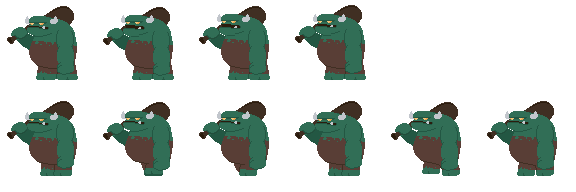
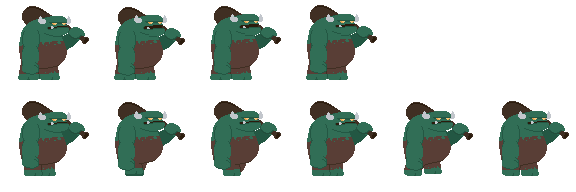
added pumpkin anim

Changed region(s): [[0.0, 0.5312, 1.0, 0.9375], [0.0, 0.0312, 0.6562, 0.4375]]

diff --git a/graphics_loader.py b/graphics_loader.py
@@ -101,9 +101,11 @@ class GraphicsLoader:
 
         filename = "assets/gfx/entities/pumpkin.png"
         self.load_image(filename)
-        self.add_anim_strip(filename, "idle", 0, 64, 64, 4), (1.5, 1.5)
-        self.add_anim_strip(filename, "run", 1, 64, 64, 8, (1.5, 1.5))
-        self.add_anim_strip(filename, "flee", 2, 64, 64, 8, (1.5, 1.5))
+        self.add_anim_strip(filename, "idle", 0, 96, 96, 4), (1.5, 1.5)
+        self.add_anim_strip(filename, "run", 1, 96, 96, 8, (1.5, 1.5))
+        self.add_anim_strip(filename, "flee", 2, 96, 96, 8, (1.5, 1.5))
+        self.add_anim_strip(filename, "attack", 3, 96, 96, 14, (1.5, 1.5))
+
 
         filename = "assets/gfx/entities/skeleton.png"
         self.load_image(filename)
